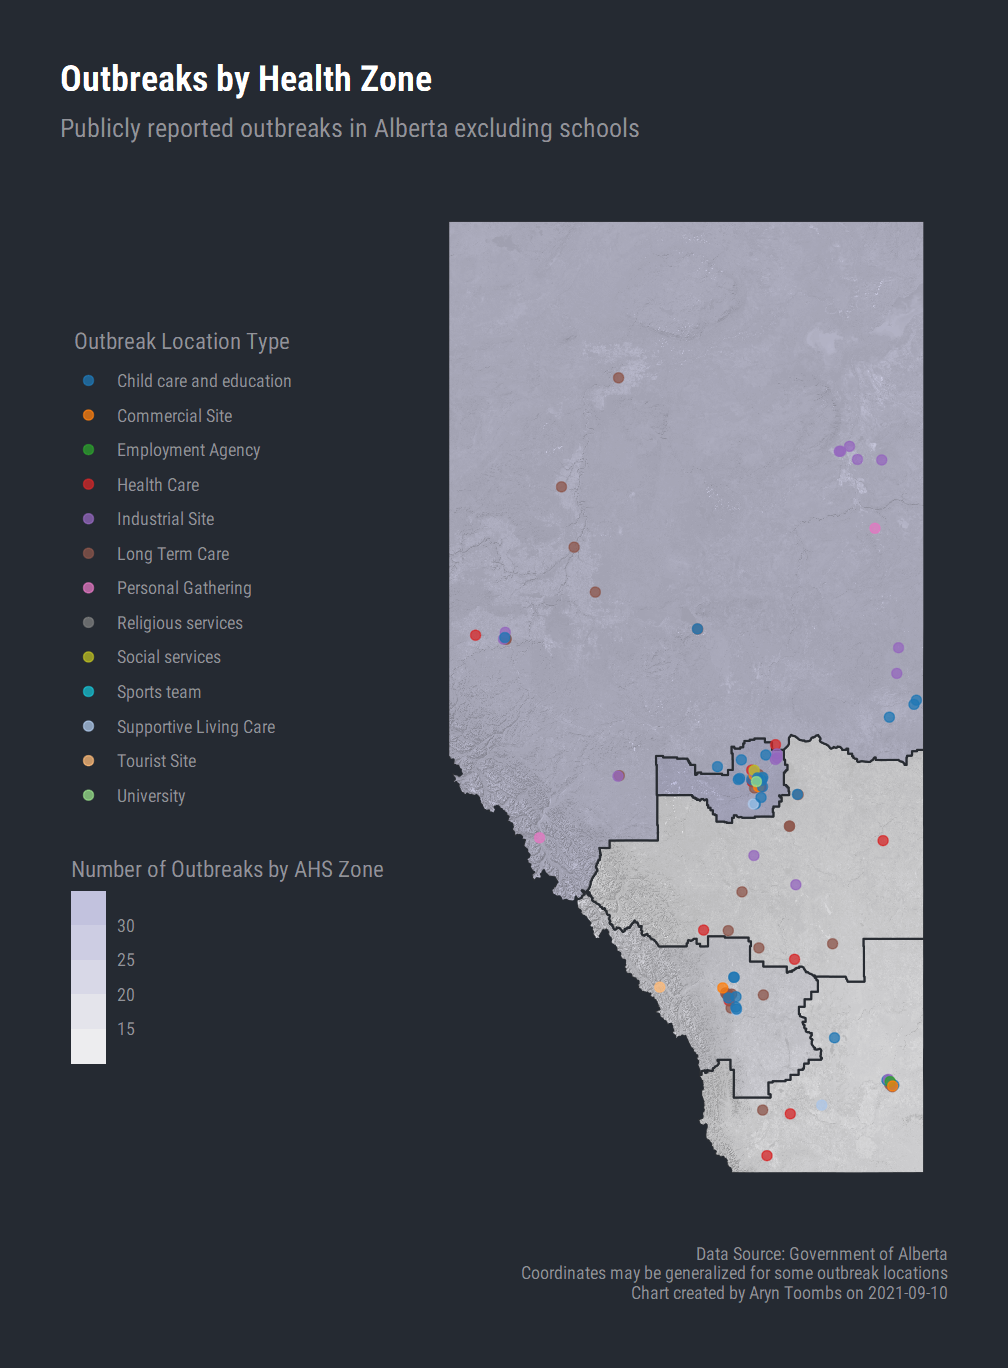
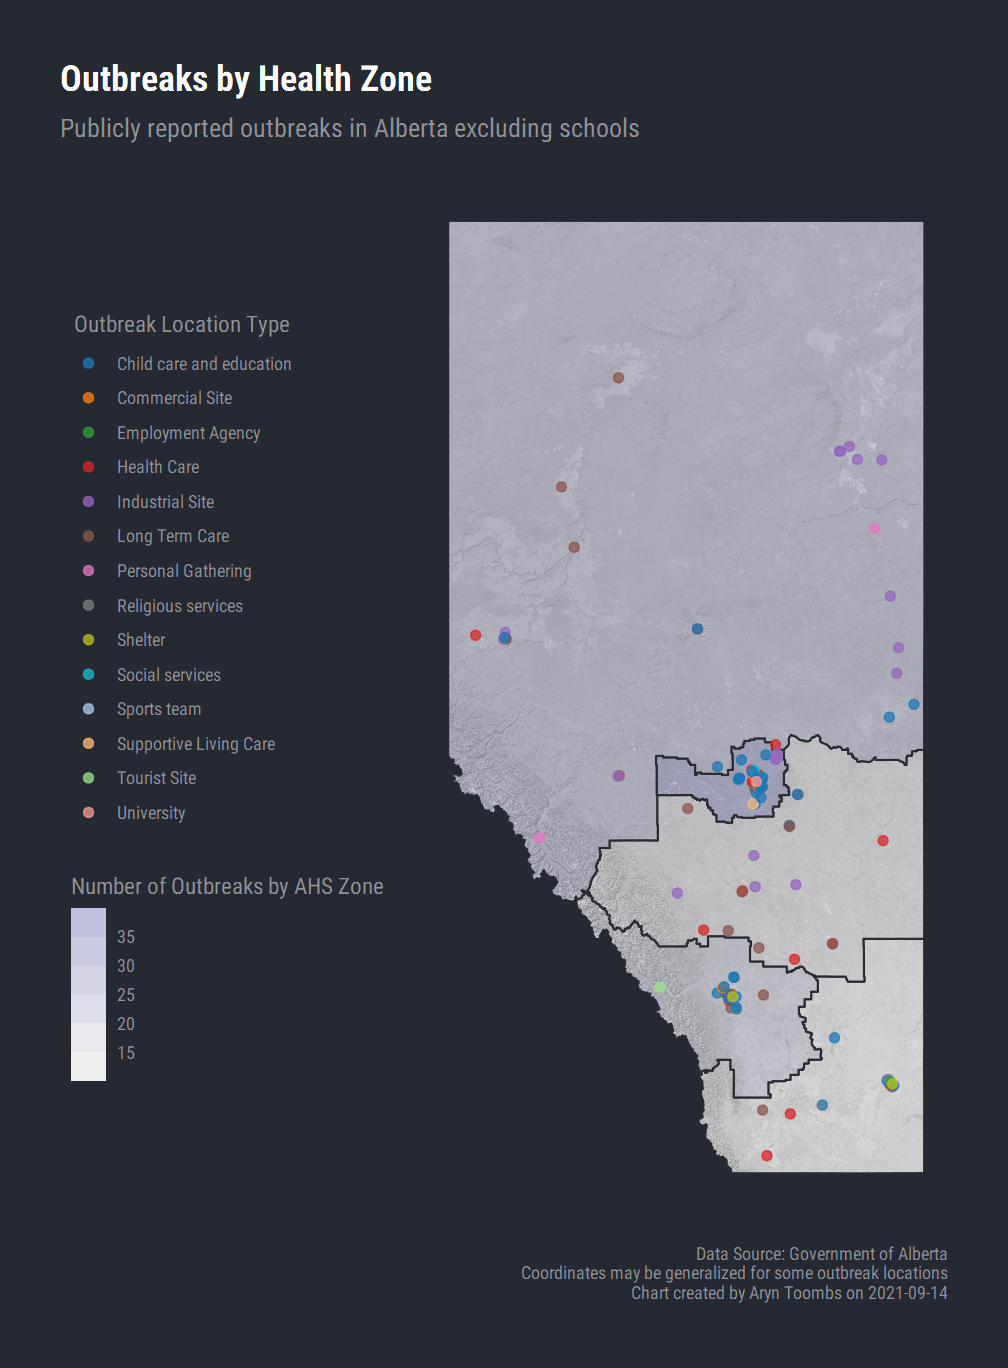
web

diff --git a/outbreaks/index.html b/outbreaks/index.html
@@ -168,7 +168,7 @@
       Calgary Zone
     </div>
     <div class="row box-bottom justify-content-center">
-      <h4>18</h4>
+      <h4>21</h4>
     </div>
   </div>
   <div class="col-sm ml-1 mr-1">
@@ -176,7 +176,7 @@
       Edmonton Zone
     </div>
     <div class="row box-bottom justify-content-center">
-      <h4>35</h4>
+      <h4>39</h4>
     </div>
   </div>
   <div class="col-sm ml-1 mr-1">
@@ -184,7 +184,7 @@
       South Zone
     </div>
     <div class="row box-bottom justify-content-center">
-      <h4>13</h4>
+      <h4>14</h4>
     </div>
   </div>
   <div class="col-sm ml-1 mr-1">
@@ -192,7 +192,7 @@
       Central Zone
     </div>
     <div class="row box-bottom justify-content-center">
-      <h4>12</h4>
+      <h4>18</h4>
     </div>
   </div>
   <div class="col-sm ml-1 mr-1">
@@ -200,12 +200,12 @@
       North Zone
     </div>
     <div class="row box-bottom justify-content-center">
-      <h4>28</h4>
+      <h4>27</h4>
     </div>
   </div>
 </div>
 <div class="row mb-3 pr-1 pt-1 justify-content-end">
-  <p class="m-1"><i class="bi bi-info-circle-fill"></i> Covid-19 outbreaks (not including schools, see below) current as of Fri, Sep 10, 2021. AHS non-school outbreak data updated on Tuesdays and Fridays.</p>
+  <p class="m-1"><i class="bi bi-info-circle-fill"></i> Covid-19 outbreaks (not including schools, see below) current as of Tue, Sep 14, 2021. AHS non-school outbreak data updated on Tuesdays and Fridays.</p>
 </div>
   <div class="row pl-3">
     <h4 class="body-display">Outbreak Charts</h4>
